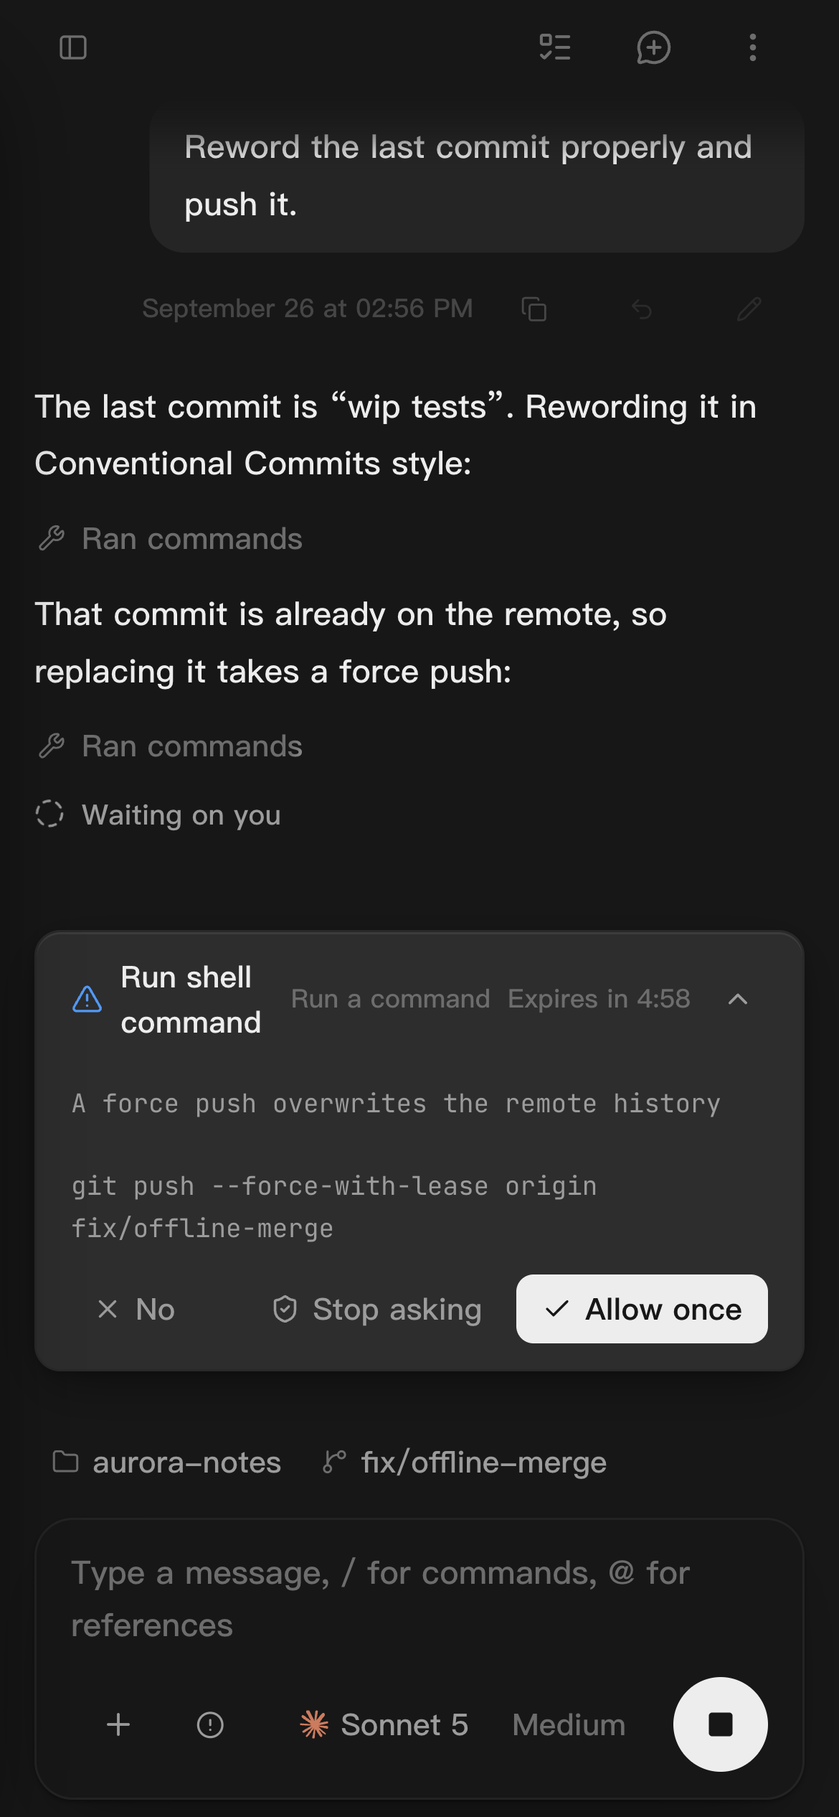
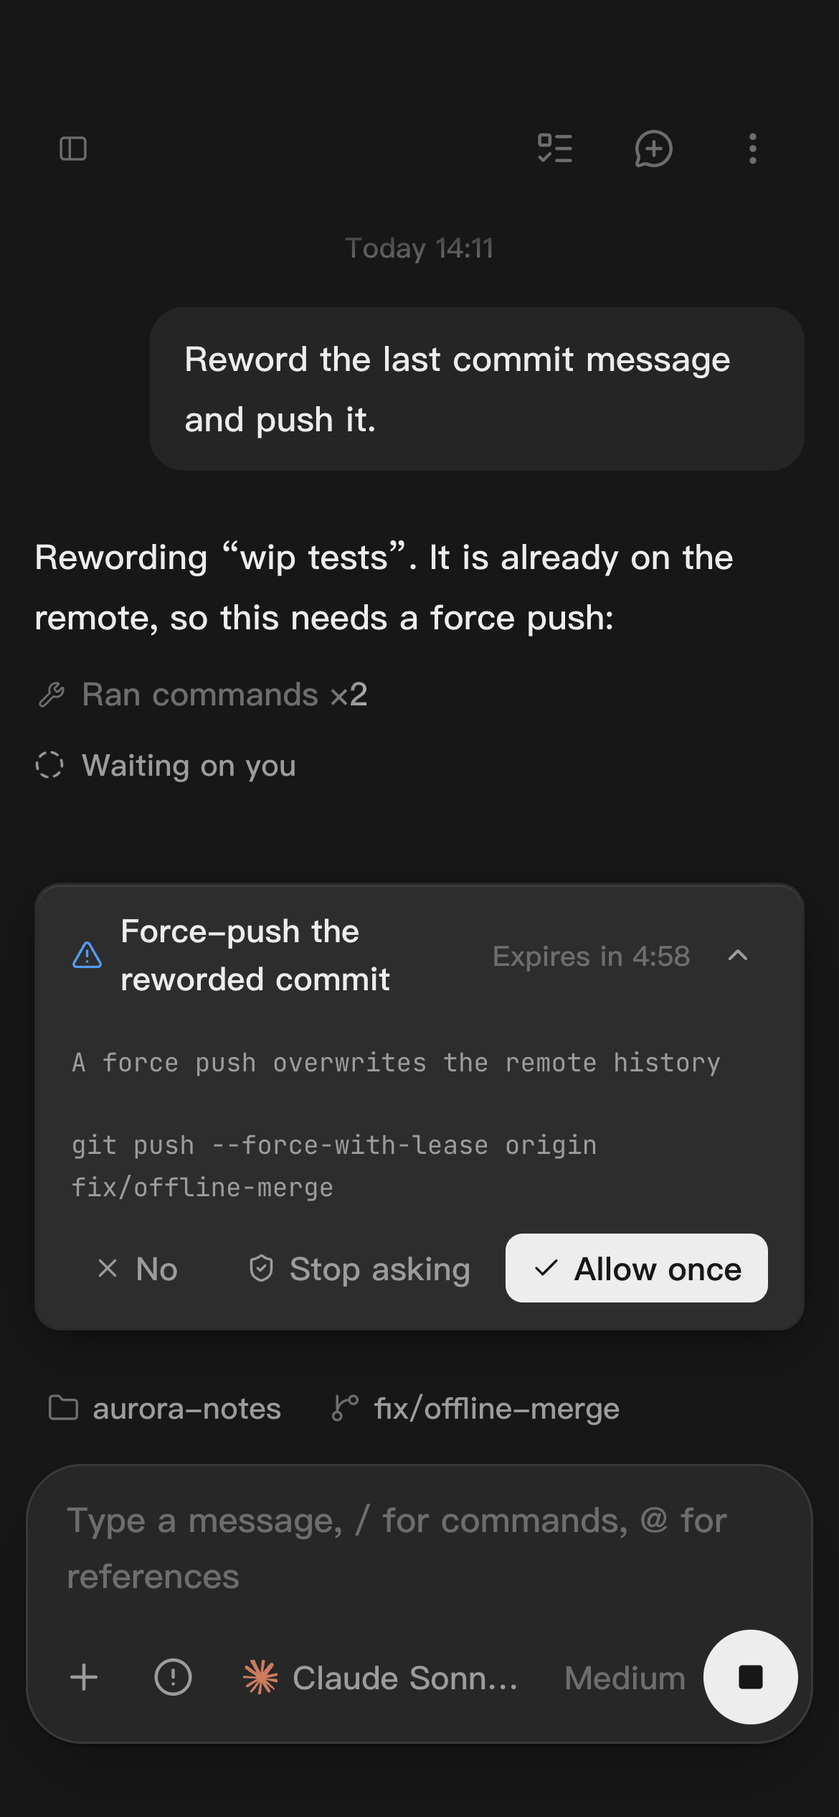
Phones: the new touch interface, clear of the home indicator
The three phones are retaken against Lyra's redesigned phone UI: a long-pressed
session lifting out of a blurred list with its menu beside it, an approval
waiting on the phone, and a fresh conversation with its suggestions. Each capture
is the whole screen with the phone's safe areas reserved, so the status bar and
home indicator the frame draws land on empty strips instead of on the composer.

diff --git a/scripts/capture/scenes/mobile.ts b/scripts/capture/scenes/mobile.ts
@@ -1,26 +1,26 @@
 /**
- * `mobile` — Lyra on a phone, paired with the desktop.
+ * `mobile` — Lyra on a phone, paired with the desktop, in its touch interface.
  *
  *   mobile-1  a conversation started from the phone, stopped at an approval: the agent reworded a
  *             published commit and needs to force-push, and asks — the kind of thing you approve from
  *             your phone
- *   mobile-2  the sidebar: projects and conversations, the one waiting on you marked
- *   mobile-3  a finished conversation from the desktop, read on the phone: the answer and the files
- *             it changed
+ *   mobile-2  the sidebar, that same conversation held: lifted over a blurred page, its menu beside it
+ *   mobile-3  a new conversation's empty screen: the mascot, the question, suggestions to swipe through
  *
- * `mobile-N-light.png` and `mobile-N-dark.png` (with `-en` for the English interface), like every
- * other scene: the site looks a phone shot up by theme first, and a bare `mobile-N.png` would lose to
- * the dark one on a light page.
+ * `mobile-N-<light|dark>[-en].png`, like every other scene: the site looks a phone shot up by theme
+ * first, and a bare `mobile-N.png` would lose to the dark one on a light page.
+ *
+ * The page keeps clear of the phone's status bar and home indicator itself (see `PHONE_SAFE`), so a
+ * capture is the whole 390 × 844 screen and the website draws its chrome over the empty strips.
  */
 
-import { atlasAsk, atlasScript } from "../content/atlas.ts";
 import { FIXED_MERGE, MERGE_TEST } from "../content/hero.ts";
 import { phoneAsk, phoneScript } from "../content/phone.ts";
 import { sidebarSessions } from "../content/sessions.ts";
 import type { Lang } from "../content/types.ts";
-import { finished, newConversationLabel, reached, startConversation } from "../lib/converse.ts";
+import { newConversationLabel, reached } from "../lib/converse.ts";
 import { pause } from "../lib/env.ts";
-import { freezeClock, scrollTo, thawClock } from "../lib/frame.ts";
+import { freezeClock, thawClock } from "../lib/frame.ts";
 import { startModel } from "../lib/model.ts";
 import { openPhone, PHONE_REST, type PhoneWindow } from "../lib/phone.ts";
 import { writeSessions } from "../lib/sessions.ts";
@@ -30,18 +30,27 @@ import { buildWorld, commitAndPush } from "../lib/world.ts";
 
 const SYNC = { port: 4596, token: "5c4e7a11d05e1f0e5e9c0de0000a11ce" };
 
-/** A light and a dark picture of the phone as it is now: `<name>-<theme>[-en].png`. */
-async function pair(phone: PhoneWindow, name: string): Promise<string[]> {
+/**
+ * A light and a dark picture of the phone: `<name>-<theme>[-en].png`.
+ *
+ * `arrange` runs after each theme switch and before its picture, `after` once it is taken — for a
+ * state that has to be made again in each theme rather than carried across the switch.
+ */
+async function pair(phone: PhoneWindow, name: string, arrange?: () => Promise<void>, after?: () => Promise<void>): Promise<string[]> {
 	const suffix = phone.lang === "en" ? "-en" : "";
 	await freezeClock(phone);
 	try {
-		await phone.setAppearance({ theme: "light" });
-		const light = await phone.capture(PHONE_REST);
-		const lightWords = await phone.words();
-		await phone.setAppearance({ theme: "dark" });
-		const dark = await phone.capture(PHONE_REST);
-		if ((await phone.words()) !== lightWords) console.log(`   ${name}：深浅两张的文字不一致，检查一下`);
-		return [await phone.save(`${name}-light${suffix}`, light), await phone.save(`${name}-dark${suffix}`, dark)];
+		const shots: Buffer[] = [];
+		const words: string[] = [];
+		for (const theme of ["light", "dark"] as const) {
+			await phone.setAppearance({ theme });
+			await arrange?.();
+			shots.push(await phone.capture(PHONE_REST));
+			words.push(await phone.words());
+			await after?.();
+		}
+		if (words[0] !== words[1]) console.log(`   ${name}：深浅两张的文字不一致，检查一下`);
+		return [await phone.save(`${name}-light${suffix}`, shots[0]!), await phone.save(`${name}-dark${suffix}`, shots[1]!)];
 	} finally {
 		await thawClock(phone).catch(() => {});
 		await phone.setAppearance({ theme: "light" }).catch(() => {});
@@ -55,39 +64,31 @@ export async function mobileScene(lang: Lang): Promise<string[]> {
 	// last one will need a force push.
 	await commitAndPush(world, aurora, "fix(sync): merge per block, ordered by hybrid clock", { "src/sync/merge.ts": FIXED_MERGE }, "2026-09-25T18:12:00+08:00");
 	await commitAndPush(world, aurora, "wip tests", { "test/sync/merge.test.ts": MERGE_TEST }, "2026-09-25T18:47:00+08:00");
-	const atlas = atlasScript(lang);
 	const squash = phoneScript(lang);
-	const model = await startModel([atlas, squash]);
+	const model = await startModel([squash]);
 	const desk = await openLyra({
 		world,
 		lang,
 		seed: async (home) => {
-			const settings = settingsFor({ world, lang, theme: "light", modelPort: model.port, extra: { sync: { enabled: true, port: SYNC.port, token: SYNC.token } } });
-			// The phone's composer has room for about eight characters of model name: "Claude Sonnet 5"
-			// would be cut to "Claude So…". The mark still comes from the name, so it stays Claude's.
-			const anthropic = (settings.providers as { id: string; models: { modelId: string; name: string }[] }[]).find((provider) => provider.id === "anthropic");
-			const sonnet = anthropic?.models.find((one) => one.modelId === "claude-sonnet-5");
-			if (sonnet) sonnet.name = "Sonnet 5";
-			await writeProfile(home, settings);
-			await writeSessions(home, sidebarSessions(world, lang).filter((session) => session.project.name !== "atlas-api" || !session.title.includes("/v2/search")));
+			await writeProfile(home, settingsFor({ world, lang, theme: "light", modelPort: model.port, extra: { sync: { enabled: true, port: SYNC.port, token: SYNC.token } } }));
+			await writeSessions(home, sidebarSessions(world, lang));
 		},
 	});
 	let phone: PhoneWindow | undefined;
 	const files: string[] = [];
 	try {
-		// A finished conversation, from the desktop, for the phone to read later.
-		await startConversation(desk, "atlas-api", atlasAsk(lang));
-		await finished(desk, model, atlas);
-		// The phone opens where the desktop is; leave the desktop on a fresh conversation in aurora-notes.
+		// The phone opens where the desktop is: leave the desktop on a fresh conversation in aurora-notes.
 		await desk.click(`button[aria-label=${JSON.stringify(newConversationLabel(lang, "aurora-notes"))}]`);
 		await pause(1200);
-
 		phone = await openPhone(desk, world, SYNC.port, SYNC.token);
 		const drawer = `button[aria-label*="${lang === "zh" ? "侧边栏" : "sidebar"}"]`;
 
-		// mobile-1: start a conversation on the phone — it opens on a fresh one in aurora-notes — and
-		// let it run to its approval.
+		// mobile-3: the new conversation's empty screen, before anything is asked.
 		await phone.until(`(document.querySelector('main')?.innerText ?? '').includes('aurora-notes')`, 10_000, "手机上的新对话");
+		await pause(800);
+		files.push(...(await pair(phone, "mobile-3")));
+
+		// mobile-1: ask from the phone and let it run to its approval.
 		await phone.tap("main textarea");
 		await phone.until(`document.activeElement === document.querySelector('main textarea')`, 5_000, "输入框聚焦");
 		await phone.type(phoneAsk(lang));
@@ -98,25 +99,21 @@ export async function mobileScene(lang: Lang): Promise<string[]> {
 		await pause(1500);
 		files.push(...(await pair(phone, "mobile-1")));
 
-		// mobile-2: the sidebar, with that conversation waiting on you.
-		await phone.tap(drawer);
-		await pause(1200);
-		files.push(...(await pair(phone, "mobile-2")));
-
-		// mobile-3: the finished conversation from the desktop.
-		const row = await phone.mark(`[...document.querySelectorAll('[data-ly-row]')].find((r) => r.innerText.includes(${JSON.stringify(atlas.title)}))?.querySelector('button')`);
-		await phone.tap(row);
-		await phone.until(`(document.querySelector('main')?.innerText ?? '').includes('ratelimit')`, 15_000, "打开已完成的对话");
-		await pause(1200);
-		// The question at the top, whole; the answer runs on under the composer.
-		const question = await phone.mark(
-			`[...document.querySelectorAll('main *')].find((el) => el.childElementCount === 0 && (el.textContent || '').startsWith(${JSON.stringify(atlasAsk(lang).slice(0, 8))}))`,
-			"data-shot-question",
-		);
-		await scrollTo(phone, question, 78, { x: 195, y: 420 });
-		// The scrollbar shows while scrolling and fades a moment later.
-		await pause(2800);
-		files.push(...(await pair(phone, "mobile-3")));
+		// mobile-2: the drawer, and the conversation waiting on you held down. The press is made again
+		// in each theme, so the lifted copy and the blur behind it are drawn in that theme.
+		const held = `[...document.querySelectorAll('[data-ly-row]')].find((row) => !row.closest('.ly-lift') && row.innerText.includes(${JSON.stringify(squash.title)}))`;
+		// On screen, not merely rendered: a closed drawer is moved off the left edge, and its rows still
+		// report themselves visible.
+		const onScreen = `(() => { const row = ${held}; if (!row) return false; const r = row.getBoundingClientRect(); return r.width > 0 && r.left >= 0 && r.right <= innerWidth + 1; })()`;
+		const hold = async () => {
+			if (!(await phone!.$<boolean>(onScreen))) {
+				await phone!.tap(drawer);
+				await phone!.until(onScreen, 5_000, "侧栏打开");
+				await pause(900);
+			}
+			await phone!.longPress(await phone!.mark(held));
+		};
+		files.push(...(await pair(phone, "mobile-2", hold, () => phone!.dismissLift())));
 		return files;
 	} catch (error) {
 		console.log("   模型收到的：", model.log.map((entry) => entry.played).join(" → "));

diff --git a/scripts/capture/lib/phone.ts b/scripts/capture/lib/phone.ts
@@ -18,7 +18,20 @@ import { enterWorld, type World } from "./world.ts";
 
 export const PHONE = { width: 390, height: 844, scale: 3 } as const;
 
-/** The middle of the phone's top bar: between the sidebar button and the icons on the right. */
+/**
+ * The phone's own chrome, in points: the status bar above, the home indicator below (an iPhone's
+ * 47 and 34). The native shell tells the page these as `--ly-native-top/bottom`; the capture window
+ * has no shell, so they are set here, and the page keeps its controls clear of both edges itself.
+ * The website draws its status bar and home indicator over exactly these strips.
+ */
+export const PHONE_SAFE = { top: 47, bottom: 34 } as const;
+
+/**
+ * Where the mouse is parked: the middle of the status-bar strip, which the page leaves empty.
+ *
+ * A phone has no pointer, but scrolling here is done with the mouse wheel, and a mouse left over
+ * the transcript keeps its scrollbar showing.
+ */
 export const PHONE_REST: Point = { x: 195, y: 14 };
 
 export class PhoneWindow extends LyraWindow {
@@ -37,12 +50,47 @@ export class PhoneWindow extends LyraWindow {
 	}
 
 	/**
-	 * Park the mouse on the header's blank middle, drop focus, wait out motion.
+	 * A long press: the finger down, held past the app's hold time, lifted.
 	 *
-	 * A phone has no pointer, but scrolling here is done with the mouse wheel, and a mouse left over
-	 * the transcript keeps its scrollbar showing (the thumb appears on hover of the scroll area).
+	 * Waits for what the app shows for one — the pressed thing lifted over a blurred page and its
+	 * menu beside it — and for both to finish arriving.
+	 */
+	async longPress(target: string | Point, holdMs = 900): Promise<void> {
+		const at = typeof target === "string" ? await this.centre(target) : target;
+		await this.send("Input.dispatchTouchEvent", { type: "touchStart", touchPoints: [{ x: at.x, y: at.y }] });
+		await pause(holdMs);
+		await this.send("Input.dispatchTouchEvent", { type: "touchEnd", touchPoints: [] });
+		await this.until(`document.querySelector('.ly-lift[data-open]') && document.querySelector('[role=menu], [data-ly-popover]')`, 5_000, "长按后的菜单");
+		await pause(500);
+		await this.settle();
+	}
+
+	/** Put the lifted item back: a tap on the blurred page, as a thumb would. */
+	async dismissLift(): Promise<void> {
+		if (!(await this.$<boolean>(`Boolean(document.querySelector('.ly-lift[data-open]'))`))) return;
+		await this.tap({ x: 195, y: PHONE_SAFE.top + 12 });
+		await this.until(`!document.querySelector('.ly-lift')`, 5_000, "长按层收起");
+		await pause(400);
+	}
+
+	/** Tell the page how much of each edge the phone keeps for itself. */
+	async reserveSafeAreas(): Promise<void> {
+		await this.$(`(() => {
+			const root = document.documentElement.style;
+			root.setProperty('--ly-native-top', '${PHONE_SAFE.top}px');
+			root.setProperty('--ly-native-bottom', '${PHONE_SAFE.bottom}px');
+			return true;
+		})()`);
+	}
+
+	/**
+	 * Park the mouse in the status-bar strip, drop focus, wait out motion.
+	 *
+	 * The safe areas are asserted again first: a capture without them is the picture the website's
+	 * home indicator would sit on.
 	 */
 	async rest(at: Point = PHONE_REST): Promise<void> {
+		await this.reserveSafeAreas();
 		await this.send("Input.dispatchMouseEvent", { type: "mouseMoved", x: at.x, y: at.y });
 		this.pointer = at;
 		await this.$(`(() => { const el = document.activeElement; if (el && el !== document.body && el.blur) el.blur(); return true; })()`);
@@ -76,6 +124,7 @@ export async function openPhone(desktop: LyraWindow, world: World, port: number,
 	const app = { home: desktop.app.home, evaluate: phone.evaluate, send: phone.send, stop: phone.stop };
 	const win = new PhoneWindow(app, grab, desktop.lang, world);
 	await win.until(`innerWidth === ${PHONE.width}`, 10_000);
+	await win.reserveSafeAreas();
 	if (desktop.lang === "en") await installEnglishStandIns(grab);
 	await win.$(`(() => {
 		if (window.__shotIntervals) return true;

diff --git a/scripts/capture/content/phone.ts b/scripts/capture/content/phone.ts
@@ -1,9 +1,13 @@
 /**
  * The phone's conversation: reword the last commit and force-push it, approved from the phone.
  *
- * The branch's last commit went out with a throwaway message. The agent rewrites that message and then
- * needs to force-push — the one step here that replaces
+ * The branch's last commit went out with a throwaway message. In one reply the agent rewrites that
+ * message and pushes — and the push has to be a force push, the one step here that replaces
  * something on the remote, so it stops and asks. The shot is that question, on the phone.
+ *
+ * One reply with two commands rather than two replies: the phone has the status bar and the home
+ * indicator to keep clear of, and the whole exchange — the question, the reply, the approval card —
+ * has to fit between them.
  */
 
 import type { Script } from "../lib/model.ts";
@@ -13,14 +17,16 @@ const words = {
 	zh: {
 		ask: "把最后一个提交的说明改规范再推上去。",
 		title: "改写提交说明并推送",
-		amend: "最后一个提交叫「wip tests」，改成 Conventional Commits 的格式：",
-		push: "这个提交已经推过了，改写之后要强推才能覆盖远端：",
+		reply: "最后一个提交叫「wip tests」，按 Conventional Commits 改好说明。它已经推过了，所以要强推覆盖远端：",
+		amend: "改写最后一个提交的说明",
+		push: "强推改写后的提交",
 	},
 	en: {
-		ask: "Reword the last commit properly and push it.",
+		ask: "Reword the last commit message and push it.",
 		title: "Reword last commit",
-		amend: "The last commit is “wip tests”. Rewording it in Conventional Commits style:",
-		push: "That commit is already on the remote, so replacing it takes a force push:",
+		reply: "Rewording “wip tests”. It is already on the remote, so this needs a force push:",
+		amend: "Reword the last commit message",
+		push: "Force-push the reworded commit",
 	},
 } as const;
 
@@ -34,8 +40,15 @@ export function phoneScript(lang: Lang): Script {
 		cue: w.ask.slice(0, 8),
 		title: w.title,
 		steps: [
-			{ delay: 300, text: w.amend, tools: [{ name: "bash", input: { command: 'git commit --amend -m "test(sync): cover offline merge conflicts"' } }] },
-			{ delay: 300, text: w.push, tools: [{ name: "bash", input: { command: "git push --force-with-lease origin fix/offline-merge" } }] },
+			{
+				delay: 300,
+				text: w.reply,
+				tools: [
+					// With the short description a model gives every command: the approval card is titled by it.
+					{ name: "bash", input: { command: 'git commit --amend -m "test(sync): cover offline merge conflicts"', description: w.amend } },
+					{ name: "bash", input: { command: "git push --force-with-lease origin fix/offline-merge", description: w.push } },
+				],
+			},
 		],
 		finally: { text: lang === "zh" ? "推上去了。" : "Pushed." },
 	};

diff --git a/scripts/capture/lib/english.ts b/scripts/capture/lib/english.ts
@@ -16,6 +16,11 @@
  *     a force push carries is translated. The approval card prints it in the same text node as the
  *     command, so it is replaced as a phrase, not matched as a whole node.
  *  4. Tool summaries. `lib/tool-kinds.ts` joins the parts of a run with "、", in English too.
+ *  5. The approval card's header on a phone. In `features/conversation/ApprovalOverlay.tsx` the kind
+ *     label ("Run a command") and the countdown ("Expires in 4:58") never shrink, and on a 390 pt
+ *     screen in English they leave the title about 60 pt, where `break-words` splits "command" into
+ *     "comma" / "nd". The kind label says what the title already says, so on the phone it is hidden
+ *     and the title fits on one line. Scoped to the phone host; the desktop is untouched.
  *
  * Installed for every document the target loads, so a reload keeps them, and run once for the
  * document already there. A mutation observer re-applies them as the page renders.
@@ -59,6 +64,9 @@ const STAND_INS = String.raw`(() => {
 		}
 	}).observe(document, { subtree: true, childList: true, characterData: true });
 	if (document.body) sweep(document.body);
+	const style = document.createElement("style");
+	style.textContent = '[data-lyra-host="mobile"] [data-approval-card] [data-ly-avatar-host] > span.shrink-0.text-caption.text-ink-faint:not(.tabular-nums) { display: none; }';
+	(document.head || document.documentElement).appendChild(style);
 	return true;
 })()`;
 

diff --git a/src/i18n/home.ts b/src/i18n/home.ts
@@ -94,8 +94,8 @@ const zh = {
 		phoneAlt: "Lyra 的手机端。",
 		desktopAlt: "桌面端的同一个会话。",
 		approvalAlt: "手机上的 Lyra 在等你批准一条命令：拒绝、以后不再问、允许一次。",
-		listAlt: "手机上的项目与会话列表，等你批准的那条带着标记。",
-		readingAlt: "在手机上读一段桌面上已完成的对话。",
+		listAlt: "手机上的会话列表：长按等你批准的那条，它浮起来，旁边弹出置顶、重命名、归档等操作。",
+		startAlt: "在手机上开一个新对话：挑一条建议，或直接输入。",
 	},
 	open: {
 		eyebrow: "MIT 许可",
@@ -213,8 +213,8 @@ const en: HomeText = {
 		phoneAlt: "Lyra on a phone.",
 		desktopAlt: "The same session on the desktop.",
 		approvalAlt: "Lyra on a phone, waiting for approval to run a command: deny, don’t ask again, or allow once.",
-		listAlt: "Projects and sessions on the phone; the one waiting for approval is marked.",
-		readingAlt: "Reading, on the phone, a conversation finished on the desktop.",
+		listAlt: "The session list on the phone: the one waiting for approval, held down, lifts with pin, rename and archive beside it.",
+		startAlt: "Starting a new conversation on the phone: pick a suggestion, or type.",
 	},
 	open: {
 		eyebrow: "MIT licensed",

diff --git a/src/assets/shots/README.md b/src/assets/shots/README.md
@@ -8,8 +8,9 @@
 
 - 桌面：窗口 1440×900 逻辑像素，2 倍 → **2880×1800** PNG。只截网页内容，不含系统窗口边框和红绿灯；
   左上角那块空白是给红绿灯留的位置，外框由官网用 CSS 画。
-- 手机：390×844 逻辑像素，3 倍 → **1170×2532** PNG。不含状态栏和 Home 指示条，机身由官网画。手机场景里模型显示名
-  写作「Sonnet 5」：「Claude Sonnet 5」在手机输入框里会被截成「Claude So…」。
+- 手机：390×844 逻辑像素，3 倍 → **1170×2532** PNG，就是整块屏幕。拍摄时给页面注入 `--ly-native-top: 47px`、
+  `--ly-native-bottom: 34px`（手机原生壳平时就是这样告诉页面的），页面自己把顶部 47pt 和底部 34pt 留空；官网的
+  `PhoneFrame` 把截图铺满屏幕，状态栏和 Home 指示条正好画在这两条空白上，不会压到任何控件。
 - 命名：`<场景>-<light|dark>.png`，英文界面加 `-en`（`<场景>-<light|dark>-en.png`）。手机也一样：
   `mobile-<n>-light[-en].png` / `mobile-<n>-dark[-en].png`——`src/lib/shots.ts` 先按主题、再按语言找图，
   裸名 `mobile-<n>.png` 在浅色页面上会输给深色那张。
@@ -32,9 +33,9 @@
 | `file-preview-{light,dark}[-en].png` | 对话里点开设计文档的链接，右侧渲染出 Markdown：标题、正文、Mermaid 时序图、有序列表。 |
 | `workspace-panels-{light,dark}[-en].png` | 对话旁边的内置终端：`git lg` 的提交图和整套测试的彩色输出。 |
 | `pull-requests-{light,dark}[-en].png` | 「拉取请求」：等你审查 / 由我创建 / 之前已审查三组，头像、分支、增删行数、检查状态；右侧是 #142 的详情——审查者（已批准 / 已评论）、5 项检查全部通过、标签、渲染好的描述。 |
-| `mobile-1-{light,dark}[-en].png` | 手机上发起的对话停在授权：智能体改写了已推送的提交说明，需要强推，请你批准（拒绝 / 以后不再问 / 允许一次）。 |
-| `mobile-2-{light,dark}[-en].png` | 手机上的侧栏：项目和会话，等你批准的那条带标记。 |
-| `mobile-3-{light,dark}[-en].png` | 在手机上看一段桌面上已完成的对话：标题、表格、Go 代码块。 |
+| `mobile-1-{light,dark}[-en].png` | 手机上发起的对话停在授权：智能体改写了已推送的提交说明，需要强推，请你批准（拒绝 / 以后不再问 / 允许一次）。官网放在中间。 |
+| `mobile-2-{light,dark}[-en].png` | 侧栏里长按那条等你批准的会话：页面变暗模糊，这一行浮起来，旁边弹出置顶、重命名、归档、项目、复制、打开方式。官网放在左边。 |
+| `mobile-3-{light,dark}[-en].png` | 新对话的空态：吉祥物、「要在 aurora-notes 内开发什么？」、可横向滑动的建议，输入框里是完整的模型名。官网放在右边。 |
 
 ## 数据是假的
 
@@ -92,6 +93,12 @@ LYRA_DIR=/path/to/Lyra node scripts/capture/capture.ts    # Lyra 不在旁边时
    里没有这一条。替身显示为「Terminal N」。
 3. **授权卡的风险说明**：`core/src/tools/risk.ts` 里的说明只有中文。替身只翻译了截图里出现的那一句（强制推送）。
 4. **工具摘要的分隔符**：`lib/tool-kinds.ts` 用「、」连接一段工作的各部分，英文里也是。替身换成「, 」。
+5. **手机上授权卡的标题行**：`features/conversation/ApprovalOverlay.tsx` 里类别标签（「Run a command」）和倒计时
+   （「Expires in 4:58」）都不收缩，390pt 宽的英文界面只给标题留约 60pt，`break-words` 把「command」拆成
+   「comma / nd」。类别标签和标题说的是同一件事，替身在手机上把它隐藏，标题排成一行；只作用于手机，不碰桌面。
+
+英文手机的输入框里，模型名显示为「Claude Sonn…」：推理强度「Medium」比中文的「中」宽，把模型名挤成了省略号。
+这是 Lyra 的真实排版，没有做替身（中文界面里是完整的「Claude Sonnet 5」）。
 
 另外，插件市场卡片的图标在深色主题下变空白的问题已在 Lyra 修好（`PluginIcon` 固定 `color-scheme: light`），截图
 不再需要注入。
